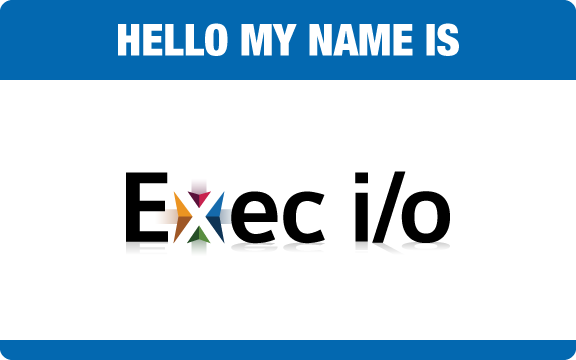
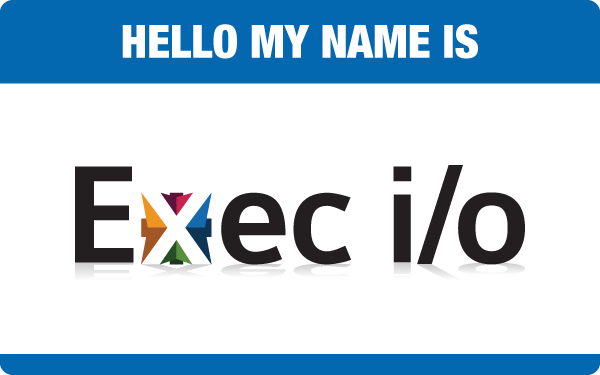
updated logomark on images sitewide, added styles for links on about panels, updated layout, updated bootstrap classes

diff --git a/app/assets/stylesheets/styles.sass b/app/assets/stylesheets/styles.sass
@@ -98,7 +98,13 @@ section.home-panel
   padding: 50px 0
   position: relative
   min-height: 1500px
+  a
+    background-color: rgba(0,0,0,.5)
+    color: white
+    padding: 2px 2px
+    text-decoration: none
   .next-arrow
+    background-color: transparent !important
     position: absolute
     bottom: 20px
     right: 20px
@@ -148,17 +154,20 @@ section.home-panel
       float: left
       clear: left
     a
-      color: $dark-green
+      background-color: rgba($dark-green, .75)
+      &:hover
+        background-color: rgba($dark-green, .5)
   &#about-us
     background-color: $dark-blue
-    background: $dark-blue image-url('nametag.png') no-repeat 86% 150px
-    background-size: 288px 180px
     color: white
     h1
       font-family: $boldCondensed helvetica sans-serif
       font-size: 4em
       text-transform: uppercase
       color: white
+    img#nametag
+      width: 100%
+      margin-top: 30px
     .speech-bubble
       display: none
       background: transparent image-url('speech-bubble.png') no-repeat
@@ -174,6 +183,12 @@ section.home-panel
         display: block
         margin: 0
         height: 40px
+    a
+      background-color: rgba($light-blue, .4)
+      &:hover
+        background-color: rgba($light-blue, .65)
+    ul a
+      display: inline-block
   #contact-us
     h2
       margin-bottom: 15px
